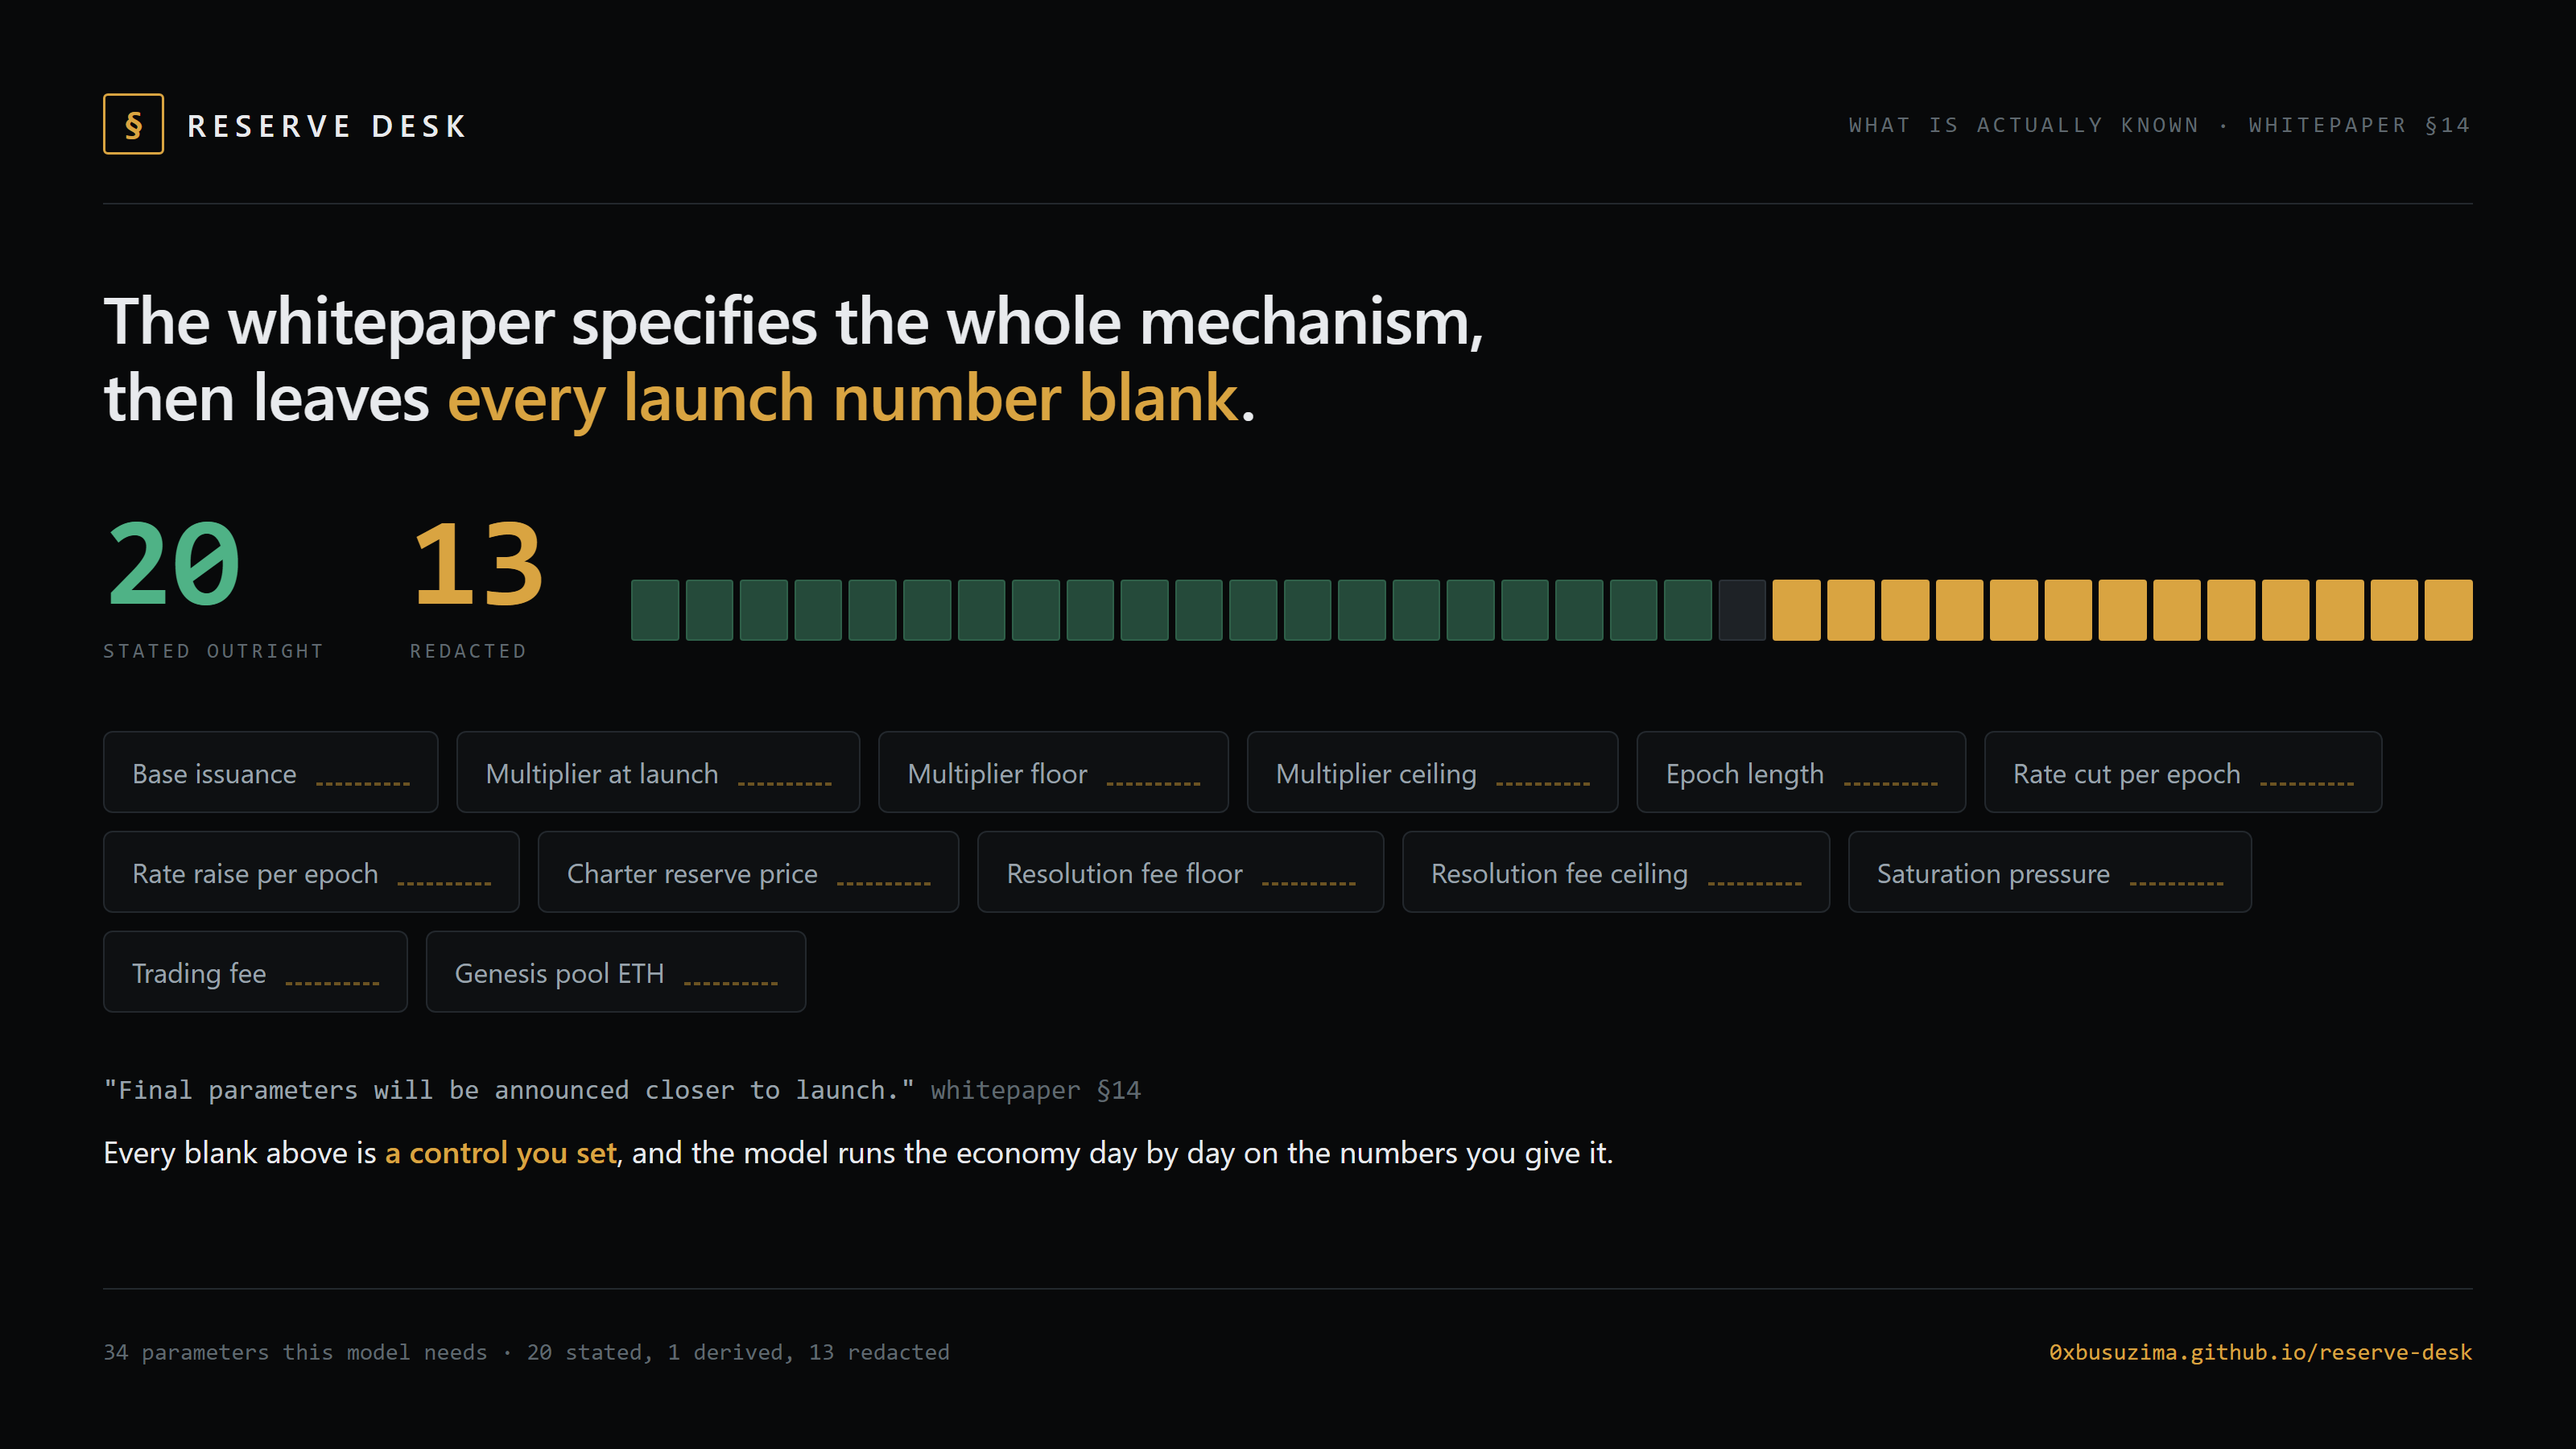
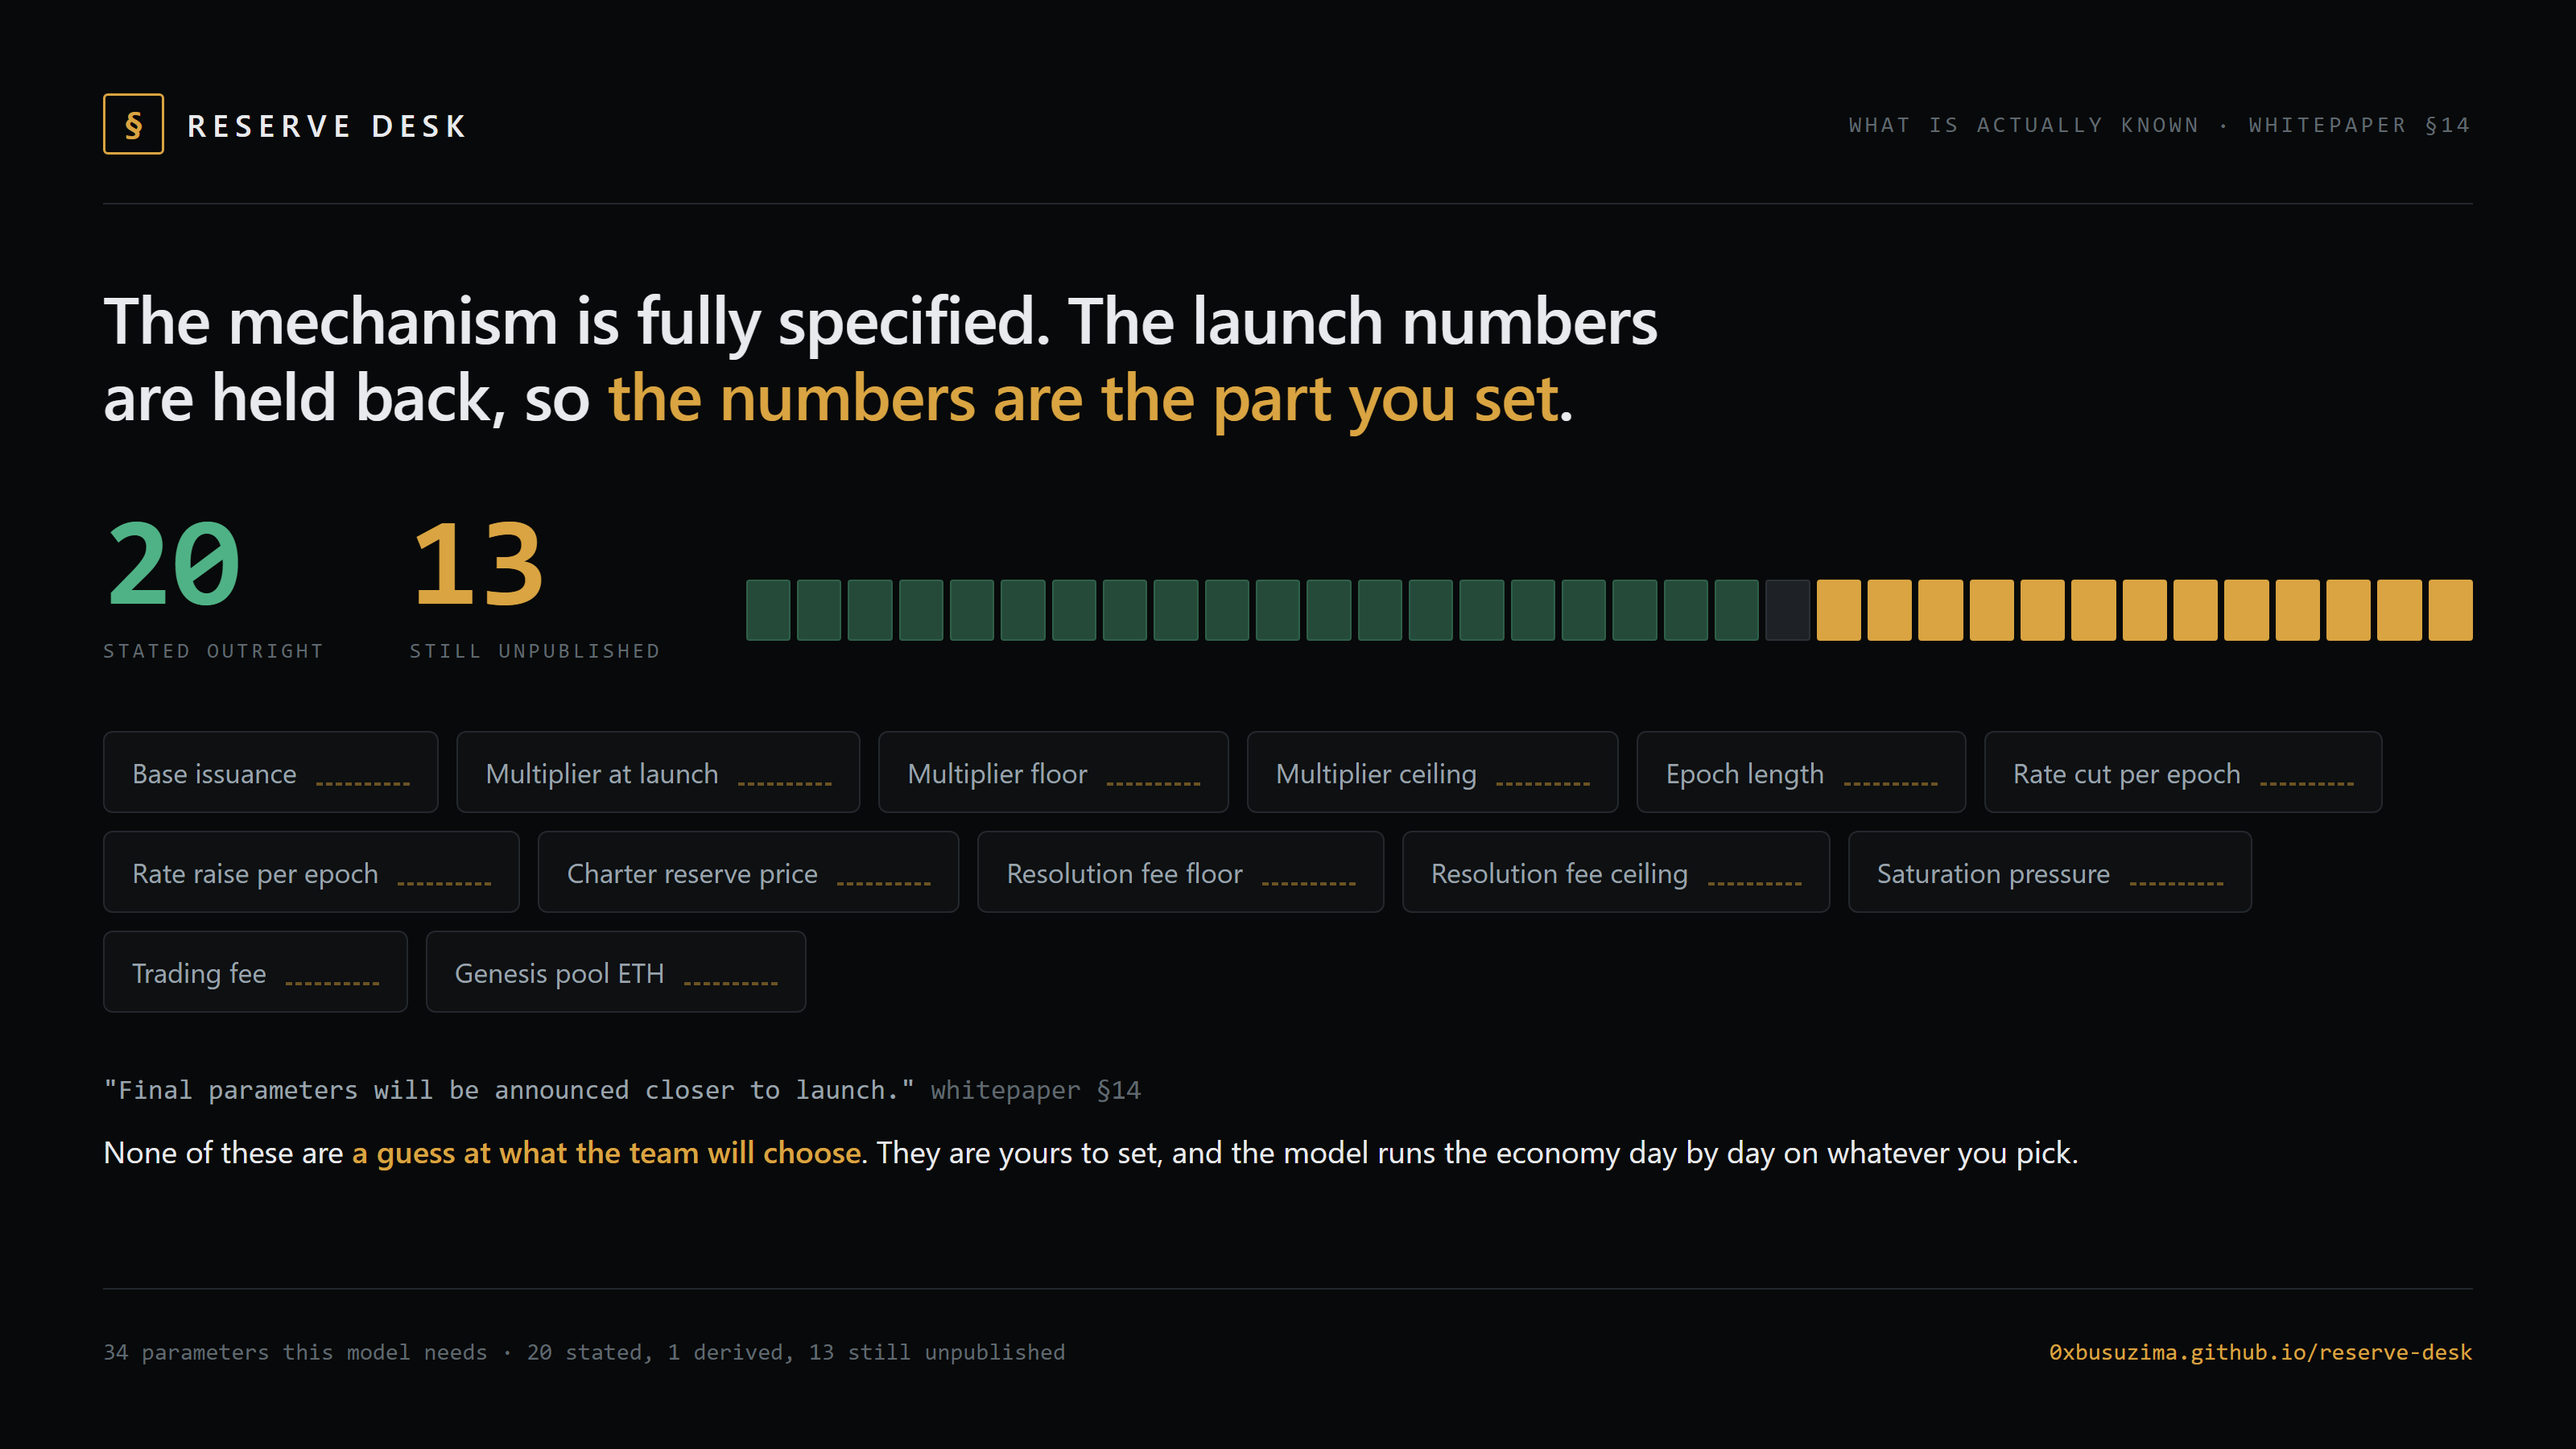
Correct why the launch numbers are missing, and reframe the card
I had guessed the omission was about not inviting gaming before the audits
finish. The author has said publicly it is deliberate and aimed at forks, so
the methodology now cites that instead of speculating, and states outright
that this is a simulator rather than a reimplementation.

The redaction card carried the same wrong tone. It now says the numbers are
held back and that none of the values are a guess at what the team will
choose.

diff --git a/share/redaction-card.html b/share/redaction-card.html
@@ -66,18 +66,18 @@
   <hr>
 
   <div class="lede">
-    <h1>The whitepaper specifies the whole mechanism,<br>then leaves <em>every launch number blank</em>.</h1>
+    <h1>The mechanism is fully specified. The launch numbers<br>are held back, so <em>the numbers are the part you set</em>.</h1>
   </div>
   <div class="counts">
     <div class="count on"><div class="n">20</div><div class="l">stated outright</div></div>
-    <div class="count off"><div class="n">13</div><div class="l">redacted</div></div>
+    <div class="count off"><div class="n">13</div><div class="l">still unpublished</div></div>
     <div class="segs"><i class="on"></i><i class="on"></i><i class="on"></i><i class="on"></i><i class="on"></i><i class="on"></i><i class="on"></i><i class="on"></i><i class="on"></i><i class="on"></i><i class="on"></i><i class="on"></i><i class="on"></i><i class="on"></i><i class="on"></i><i class="on"></i><i class="on"></i><i class="on"></i><i class="on"></i><i class="on"></i><i class="mid"></i><i class="off"></i><i class="off"></i><i class="off"></i><i class="off"></i><i class="off"></i><i class="off"></i><i class="off"></i><i class="off"></i><i class="off"></i><i class="off"></i><i class="off"></i><i class="off"></i><i class="off"></i></div>
   </div>
   <div class="chips"><span class="chip">Base issuance<i class="blank"></i></span><span class="chip">Multiplier at launch<i class="blank"></i></span><span class="chip">Multiplier floor<i class="blank"></i></span><span class="chip">Multiplier ceiling<i class="blank"></i></span><span class="chip">Epoch length<i class="blank"></i></span><span class="chip">Rate cut per epoch<i class="blank"></i></span><span class="chip">Rate raise per epoch<i class="blank"></i></span><span class="chip">Charter reserve price<i class="blank"></i></span><span class="chip">Resolution fee floor<i class="blank"></i></span><span class="chip">Resolution fee ceiling<i class="blank"></i></span><span class="chip">Saturation pressure<i class="blank"></i></span><span class="chip">Trading fee<i class="blank"></i></span><span class="chip">Genesis pool ETH<i class="blank"></i></span></div>
   <div class="quote">"Final parameters will be announced closer to launch."<span> whitepaper §14</span></div>
-  <div class="payoff">Every blank above is <b>a control you set</b>, and the model runs the economy day by day on the numbers you give it.</div>
+  <div class="payoff">None of these are <b>a guess at what the team will choose</b>. They are yours to set, and the model runs the economy day by day on whatever you pick.</div>
   <footer>
-    <div>34 parameters this model needs · 20 stated, 1 derived, 13 redacted</div>
+    <div>34 parameters this model needs · 20 stated, 1 derived, 13 still unpublished</div>
     <div class="url">0xbusuzima.github.io/reserve-desk</div>
   </footer>
 </body></html>

diff --git a/docs/METHODOLOGY.md b/docs/METHODOLOGY.md
@@ -10,9 +10,13 @@ Source: [standardreserve.xyz/whitepaper](https://www.standardreserve.xyz/whitepa
 
 The whitepaper is unusually complete on mechanism. Sections 2 through 13 specify the entities, the signal, the shape of the policy rule, the auction format, the shape of the exit fee, dormancy, the fee split, and the buyback throttle. Section 14 then presents a "Launch parameters" table in which **every value is blank**, followed by: *"Final parameters will be announced closer to launch."*
 
-That is a defensible disclosure choice, since publishing a rate before an audit finishes invites gaming, but it means the document is, as economics, unfalsifiable. The same mechanism is a reasonable ten year emission or a three month farm depending entirely on one redacted number.
+The reason is not a mystery. The author has said publicly that holding numbers back is deliberate, and that it is an anti fork measure: *"you can omit information in the whitepaper for this exact reason, good luck vibe coders"* ([@0xbeans, 25 August 2026](https://x.com/0xbeans/status/2092176563064484277)). Taken that way it is a sound decision, and this project is not an attempt to undo it.
 
-The design of Reserve Desk follows from that. It does not guess the parameters and present the result as truth. It makes the parameters the interface, tags every one with its provenance, and reports what follows.
+But it does mean the document is, as economics, unfalsifiable. The same mechanism is a reasonable ten year emission or a three month farm depending entirely on one unpublished number, and a charter holder cannot tell which without picking a value.
+
+The design of Reserve Desk follows from that. It does not guess at what the team will choose and present the result as truth. It makes the parameters the interface, tags every one with its provenance, and reports what follows from whatever you pick.
+
+Worth stating plainly, since the distinction matters: this is a simulator, not a reimplementation. It produces no contracts, deploys nothing, and cannot be used to launch anything. Where a number is unpublished, the app labels it as the operator's assumption rather than as a disclosed value.
 
 ---
 
